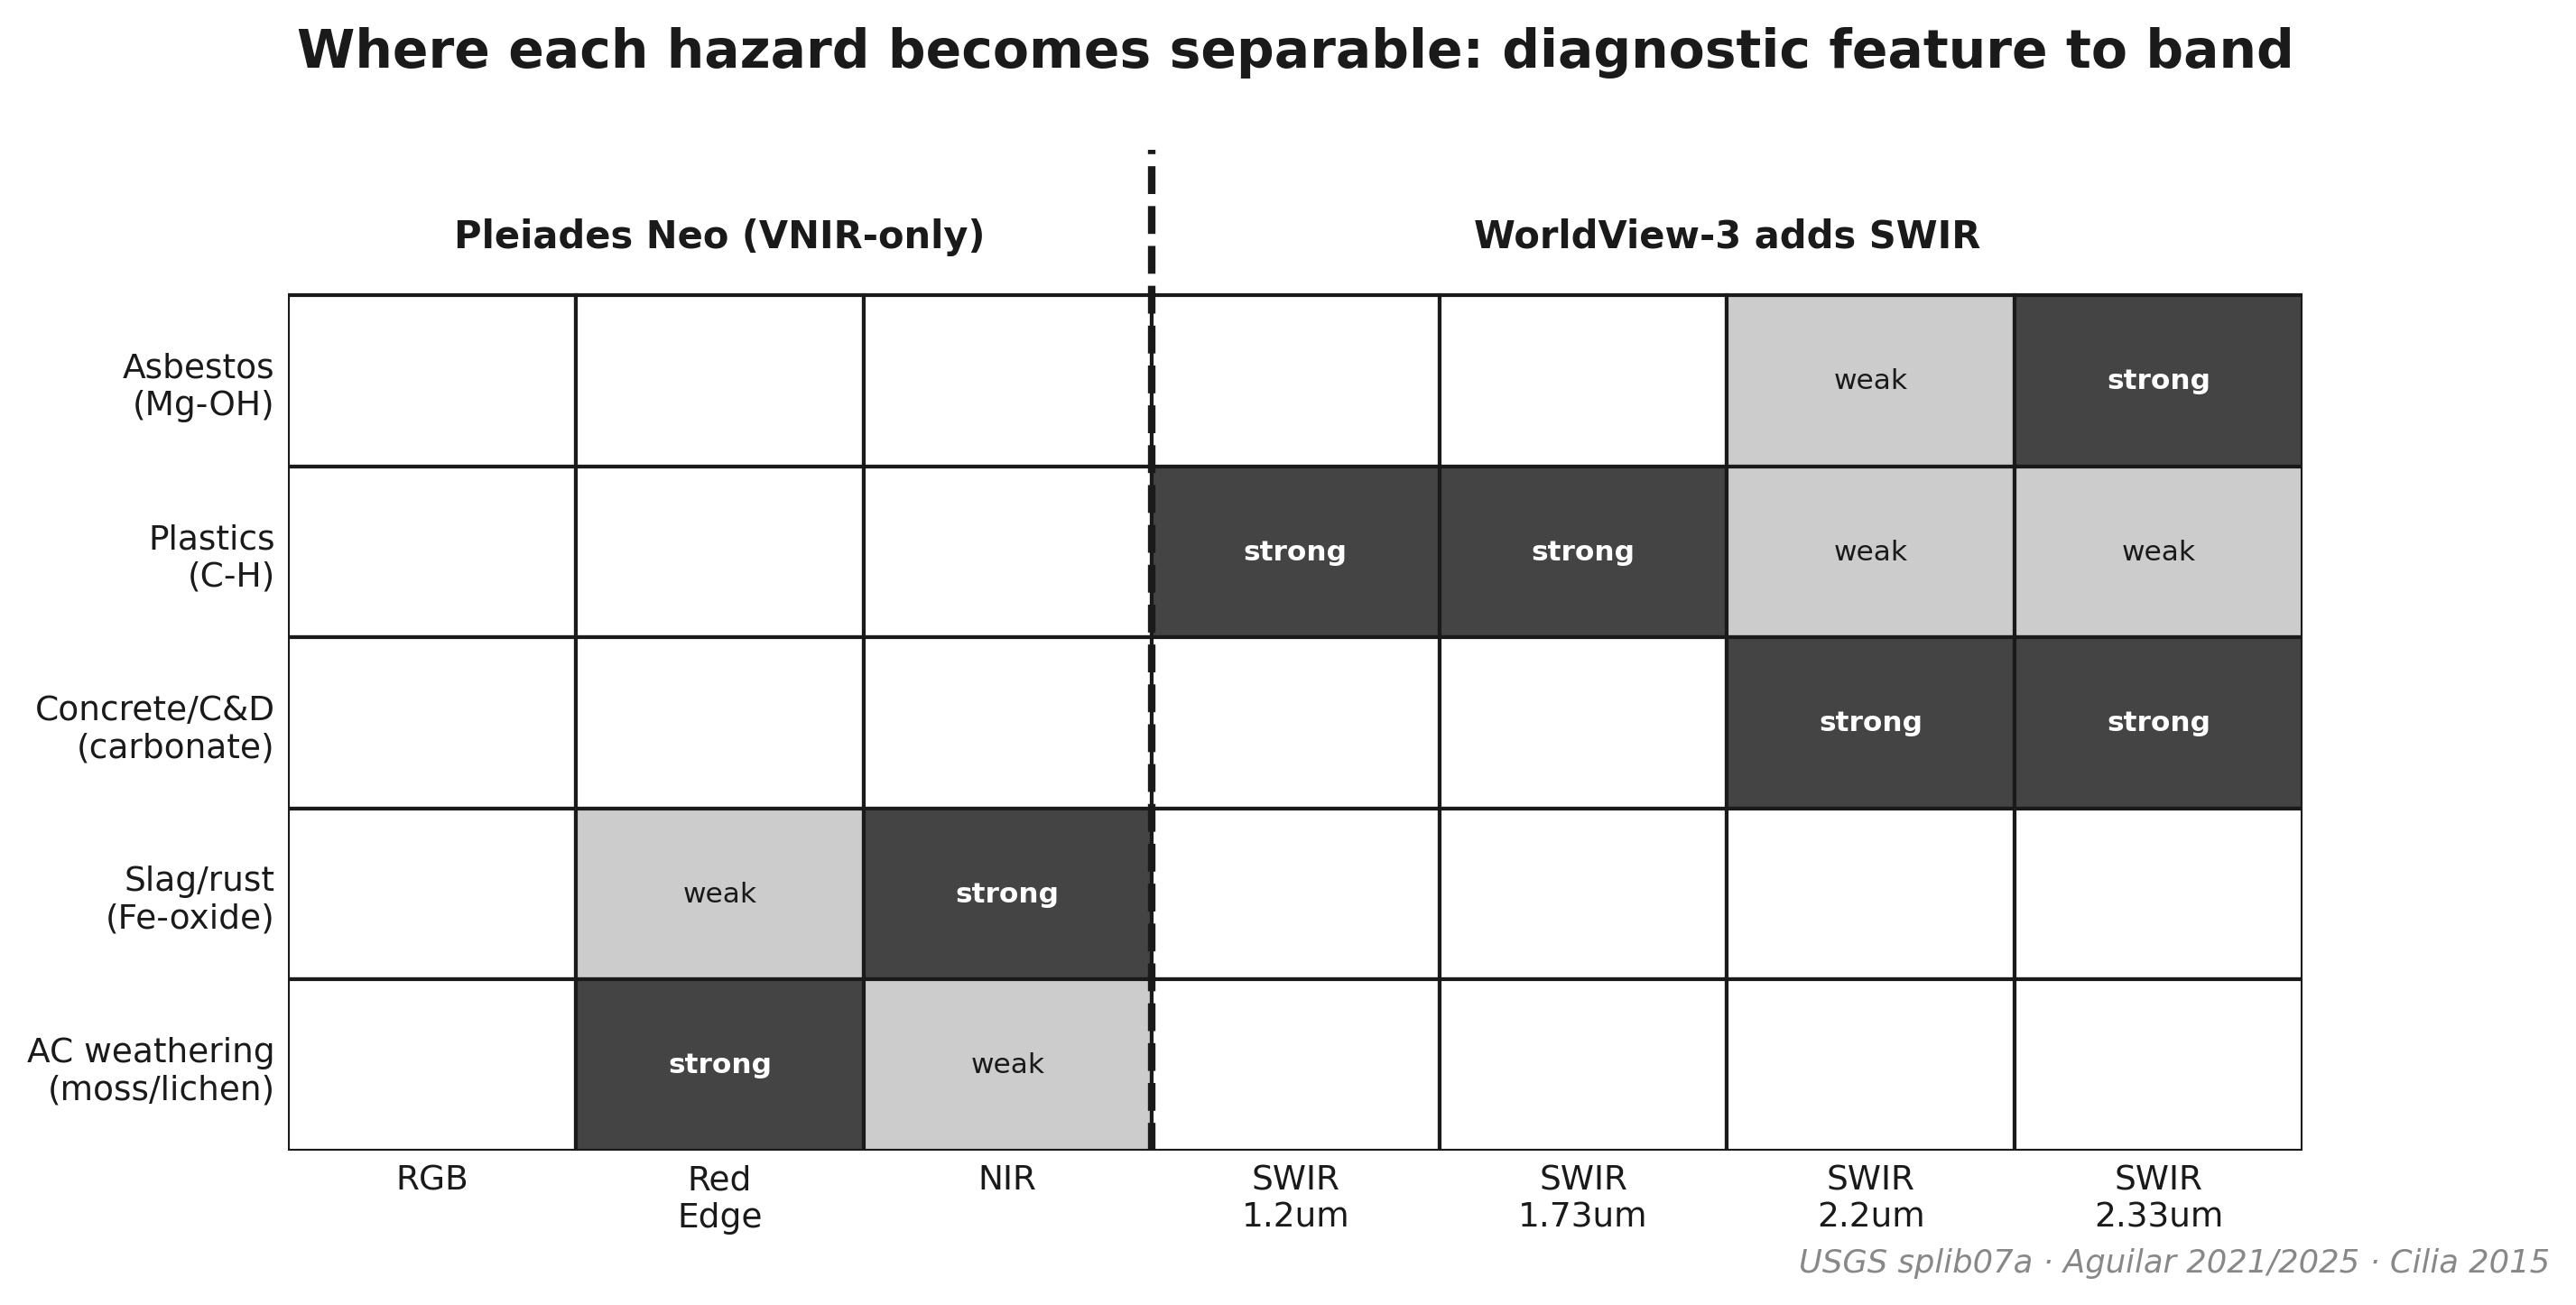
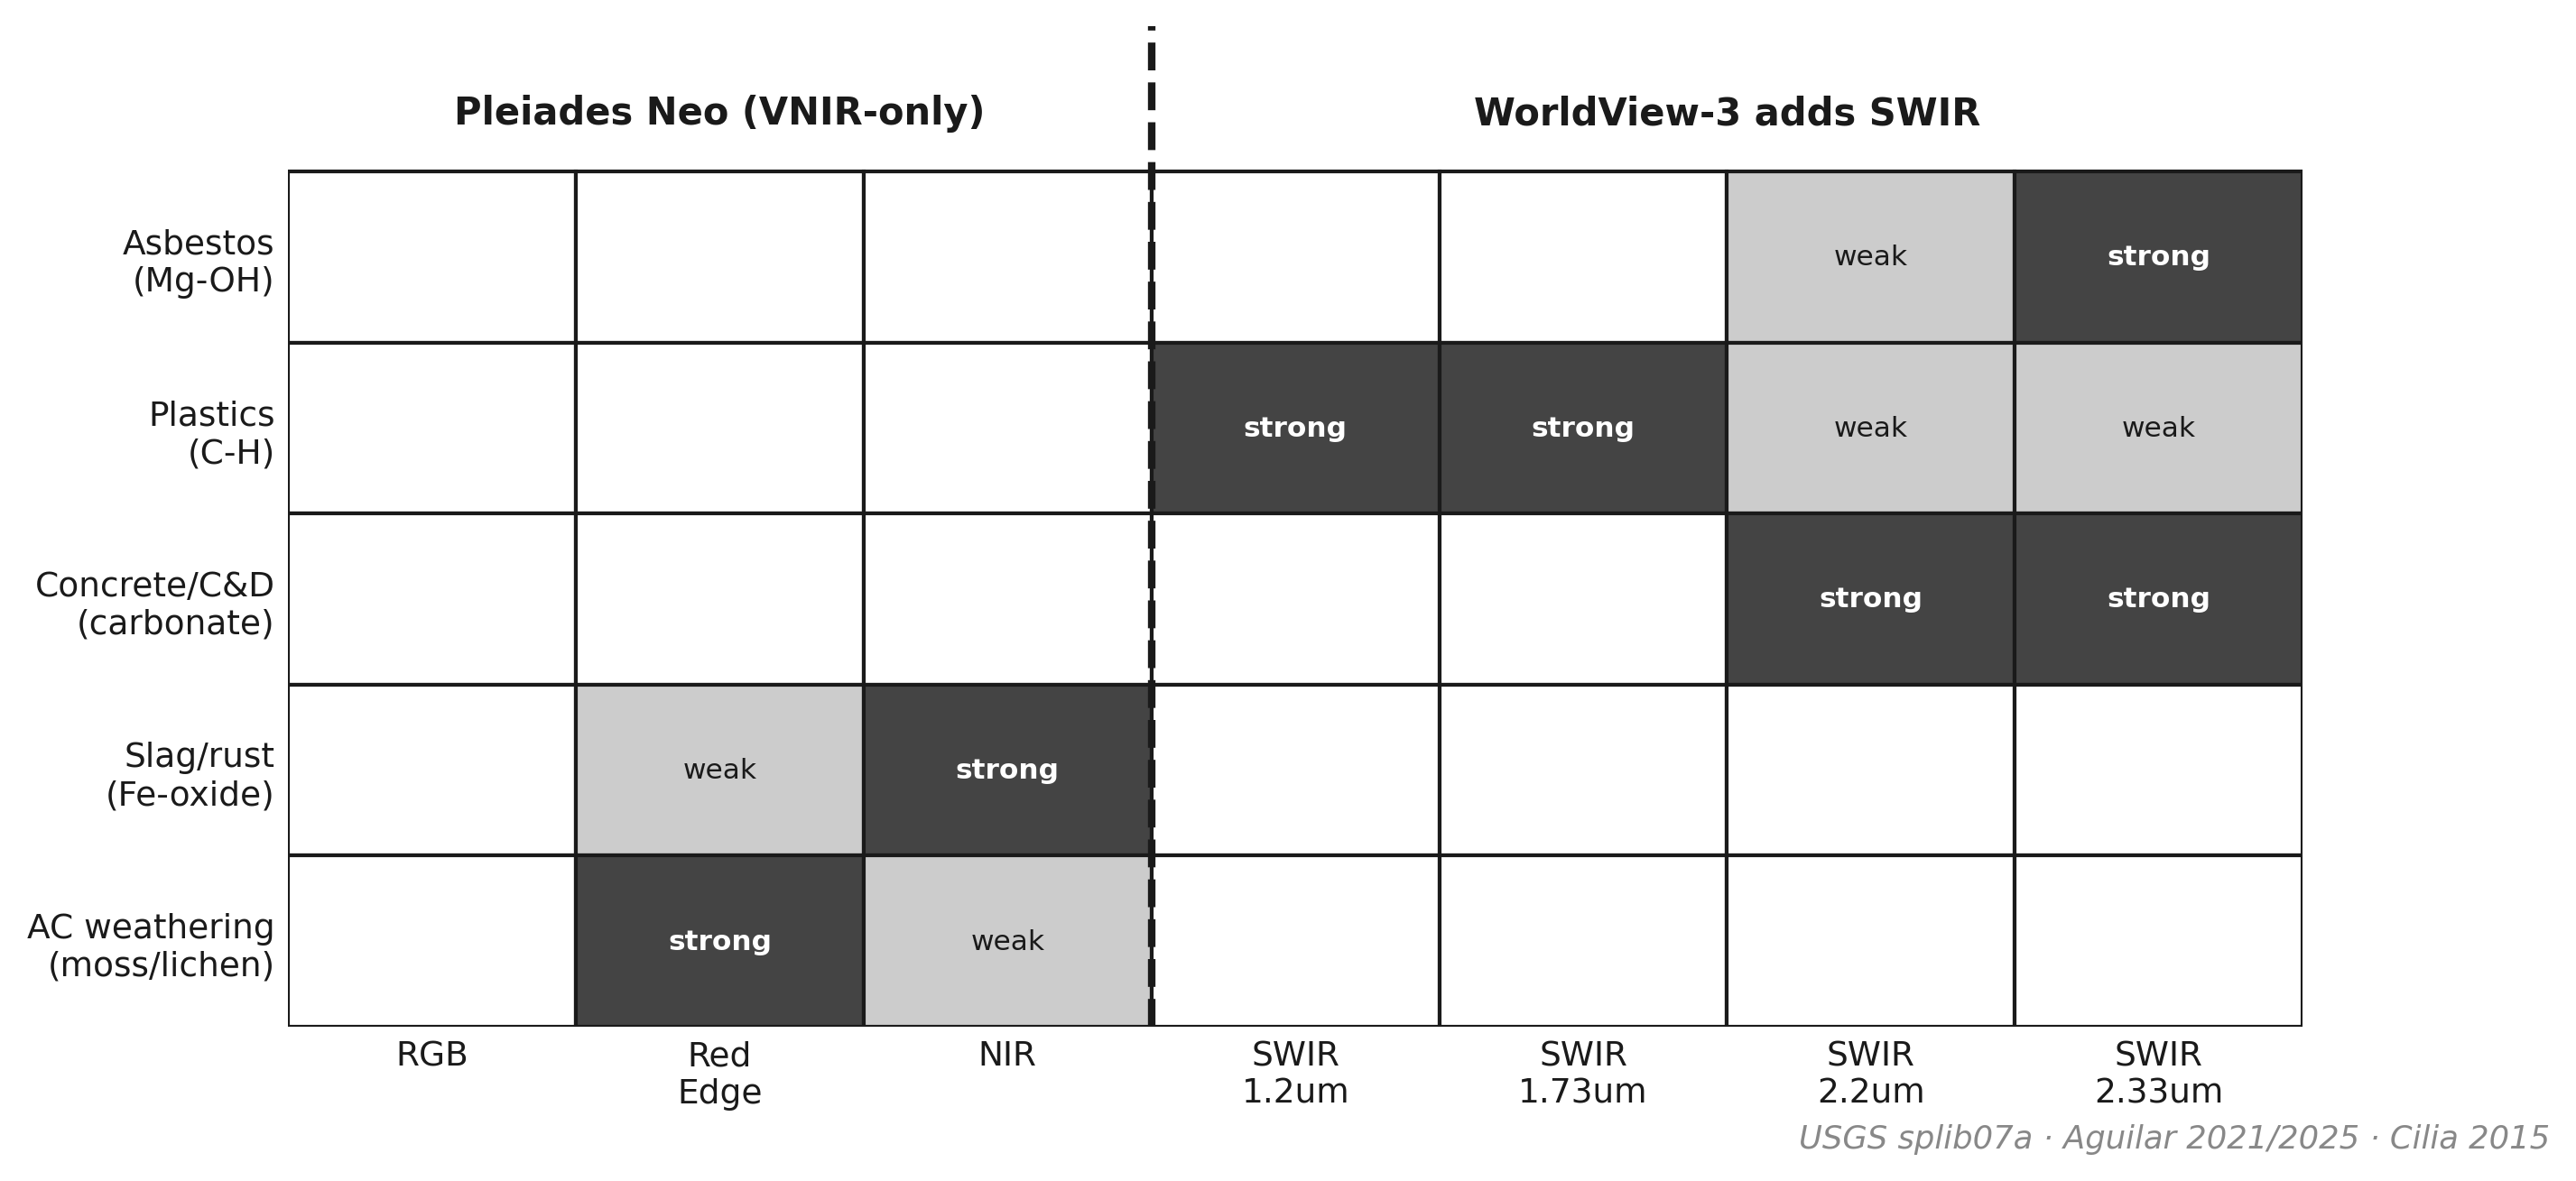
deck: impeccability pass — narrative, rigor, B/W figure polish
Narrative: feature→band map and honest-limit moved AFTER the sensor slides
(no more forward references to WV-3/PNeo before they are introduced).
Rigor: FM slide no longer says 'transfer to 3 m SuperDove' (now sub-metre
VHR); paradigm slide carries verified numbers (Gibellini F1 92.0%, −5.1%
cross-region); '22 cats'→'22 categories'; 'SBAF' jargon removed; leftover
'(Iso-chromaticity)' dropped from the RGB-fails title; proper → arrows.
Figures: sensor radar rebuilt in B/W WITH Pléiades Neo (thesis pair
emphasised); Aguilar bars and bands-plateau rebuilt as clean B/W without
embedded titles (no title duplication, no overlaps); band-map/swir8
embedded titles stripped. Discorso regenerated to match the new order.

diff --git a/assets/deck_v6/edit_deck.py b/assets/deck_v6/edit_deck.py
@@ -74,6 +74,20 @@ def reencode_all_pictures():
                 except Exception as e:
                     print("  reencode skip:",e)
 
+def replace_pic(slide, path):
+    from pptx.enum.shapes import MSO_SHAPE_TYPE
+    from PIL import Image
+    for sh in list(slide.shapes):
+        if sh.shape_type==MSO_SHAPE_TYPE.PICTURE:
+            L,T,Wb,Hb=sh.left,sh.top,sh.width,sh.height
+            del_shape(sh)
+            iw,ih=Image.open(path).size; ar=iw/ih
+            W=Wb; H=int(W/ar)
+            if H>Hb: H=Hb; W=int(H*ar)
+            slide.shapes.add_picture(path, L+(Wb-W)//2, T+(Hb-H)//2, width=W, height=H)
+            return True
+    return False
+
 def add_slide():
     s=prs.slides.add_slide(prs.slide_layouts[10])  # BLANK
     # strip any leftover placeholders
@@ -128,6 +142,25 @@ def new_table(s, data, left=0.5, top=1.35, w=9.05, colw=None, fs=10, rh=0.5, hh=
 
 # ════════ EDIT EXISTING SLIDES ════════
 # Reframe / update kept original slides
+set_body(S[2],[
+ {"t":"VHR aerial / satellite tile (RGB)  →  CNN or Transformer backbone  →  pretraining (ImageNet, EO SSL)  →  two-step fine-tune  →  binary waste / no-waste.","sz":13},
+ {"t":"•  Accurate within the geographic context it was trained on: Gibellini 2025, F1 92.0% at 20 cm.","sz":13},
+ {"t":"•  Classifies presence, not material.","sz":13},
+ {"t":"•  Tied to chromatic information only.","sz":13},
+ {"t":"•  Generalizzazione collapses outside it: -5.1% F1 cross-region; worse cross-sensor.","sz":13},
+ {"t":"These limits motivate looking at the spectrum.","i":True,"sz":12,"c":GREY},
+])
+set_footer(S[2],"Gibellini et al. 2025 (Waste Mgmt Bull.) · Fraternali et al. 2024 (survey)")
+set_title(S[6],"RGB fails in two distinct ways")
+set_body(S[15],[
+ {"t":"2024-2025: a wave of pretrained backbones for EO (Prithvi, SpectralGPT, DOFA, AnySat).","sz":14},
+ {"t":"Most are pretrained at 10-30 m on Sentinel-2 / HLS - naive transfer to sub-metre VHR is not guaranteed.","sz":14},
+ {"t":"Two routes forward","b":True,"sz":13},
+ {"t":"•  Sensor-agnostic models (DOFA, AnySat), accept arbitrary band sets.","sz":13},
+ {"t":"•  Parameter-efficient adapters (DEFLECT), freeze the backbone, add small heads (<1% parameters).","sz":13},
+ {"t":"Open question: does pretraining at 10-30 m transfer to ~1 m VHR - and to material classification?","i":True,"sz":12,"c":GREY},
+])
+
 set_body(S[3],[
  {"t":"Each pixel is a vector of reflectance values, the material's spectral signature.","sz":14},
  {"t":"•  RGB,  3 broad visible bands (colour only).","sz":14},
@@ -135,7 +168,7 @@ set_body(S[3],[
  {"t":"•  Hyperspectral (HSI),  hundreds of contiguous narrow bands (EnMAP 230; USGS splib07a 2,151 ch).","sz":14},
  {"t":"This vector is the raw input from which any classifier reasons.","sz":14},
 ])
-# S12 -> reframe as the VHR / SWIR landscape (NOT "my data")
+# S12 → reframe as the VHR / SWIR landscape (NOT "my data")
 set_title(S[11],"Very-high resolution: the SWIR divide")
 for sh in list(S[11].shapes):
     if getattr(sh,"has_table",False): del_shape(sh)
@@ -161,8 +194,8 @@ set_body(S[12],[
 ])
 # S14 more-bands
 set_body(S[13],[
- {"t":"•  Aguilar 2021 (WV-3 plastic): VNIR 90.85 -> All 97.38; SWIR carries the jump.","sz":14},
- {"t":"•  CDW 2025 (lab HSI, C&D): RGB 0.87 -> RGB + 2 NIR bands 0.96, on par with full 768-band HSI.","sz":14},
+ {"t":"•  Aguilar 2021 (WV-3 plastic): VNIR 90.85 → All 97.38; SWIR carries the jump.","sz":14},
+ {"t":"•  CDW 2025 (lab HSI, C&D): RGB 0.87 → RGB + 2 NIR bands 0.96, on par with full 768-band HSI.","sz":14},
  {"t":"•  Zhou 2021 (WV-3 SWIR): 8 narrow bands separate aliphatic vs aromatic polymers.","sz":14},
  {"t":"What matters is which bands, not how many: a few well-chosen SWIR bands recover most of the gain.","i":True,"sz":12,"c":GREY},
 ])
@@ -182,11 +215,18 @@ set_body(S[17],[
  {"t":"•  Material evidence is adjacent, not direct: proven on greenhouses / asbestos roofs in isolation, never in a waste pipeline.","sz":13},
  {"t":"•  Generalization (cross-region / cross-sensor / cross-time) is fragile and unmeasured for MS.","sz":13},
  {"t":"•  Foundation models pretrain at 10-30 m and are untested for material at VHR.","sz":13},
- {"t":"•  No link from material -> hazard class -> risk, the decision output agencies actually need.","sz":13},
+ {"t":"•  No link from material → hazard class → risk, the decision output agencies actually need.","sz":13},
 ])
 set_footer(S[17],"Gaps distilled across the surveyed works · Fraternali et al. 2024")
 
-# S15 SuperDove -> Honest caveat (+ swir8 figure)
+replace_pic(S[8], os.path.join(BW,"sensor_radar_bw.png"))
+replace_pic(S[12], os.path.join(BW,"aguilar_bars_bw.png"))
+replace_pic(S[13], os.path.join(BW,"bands_plateau_bw.png"))
+from pptx.enum.shapes import MSO_SHAPE_TYPE as _MST13
+for _sh in list(S[13].shapes):
+    if _sh.shape_type==_MST13.PICTURE:
+        _sh.top=IN(2.60); _sh.left=IN(1.80); _sh.width=IN(6.4); _sh.height=IN(2.55)
+# S15 SuperDove → Honest caveat (+ swir8 figure)
 sd=S[14]
 set_title(sd,"Honest limit: resolution is split between texture and chemistry")
 _,bd,_=boxes(sd)
@@ -223,14 +263,14 @@ n_foot(n,"EWC List of Waste (Dec. 2000/532/EC) · Fazzo et al. 2023")
 # G1 RGB detection
 survey("State of the art: RGB waste detection",
  [["Gibellini 2025","AerialWaste RGB 20 cm","Swin-T + RSP, two-step","F1 92.0%; cross-region -5.1%"],
-  ["AerialWaste (Torres 2023)","aerial RGB 20-50 cm","dataset; ResNet+FPN","F1 80.7%; 22 cats, RGB-only"],
+  ["AerialWaste (Torres 2023)","aerial RGB 20-50 cm","dataset; ResNet+FPN","F1 80.7%; 22 categories, RGB-only"],
   ["Sun 2023 (global)","VHR RGB 0.3-1 m","BCA-Net detection","~2,500 dumpsites; sens. 98%"],
   ["CascadeDumpNet 2024","Pleiades 0.5 m RGB","cascade CNN + AutoML","mAP 84.6%; transfers across cities"],
   ["Disaitek 2024","Pleiades Neo 0.3 m","operational service","waste >=2 m2 ~95% (vendor)"]],
  "All RGB: detect site shape/context; material composition stays out of reach. † vendor/pre-print not peer-benchmarked.")
 
 # band->material (physics)
-n=add_slide(); n_title(n,"Where each hazard becomes separable: feature -> band")
+n=add_slide(); n_title(n,"Where each hazard becomes separable: feature → band")
 n_img(n, os.path.join(BW,"band_material_map.png"), left=0.6, top=1.15, w=8.8, h=3.95)
 n_foot(n,"Diagnostic absorptions RGB cannot see · USGS splib07a (Kokaly 2017) · Aguilar 2021/2025 · Cilia 2015")
 
@@ -245,11 +285,11 @@ survey("State of the art: asbestos discrimination",
 
 # G3 plastics & urban materials
 survey("State of the art: plastics & urban materials",
- [["Aguilar 2021","WV-3 VNIR + SWIR","OBIA + DT, 3-way ablation","OA 90.85 -> 96.79 -> 97.38"],
+ [["Aguilar 2021","WV-3 VNIR + SWIR","OBIA + DT, 3-way ablation","OA 90.85 → 96.79 → 97.38"],
   ["Aguilar 2025","WV-3 SWIR 3.7 m","matched filter (USGS spectra)","precision 92.5%; lab-image r=0.95"],
   ["EMIT (Estrela 2025)","EMIT HSI 60 m","matched filter, HDPE/PVC","first global orbital plastic map"],
   ["MARIDA 2022","Sentinel-2 10 m","RF / U-Net benchmark","F1 0.79; sub-pixel mixing at 10 m"],
-  ["CDW 2025","lab HSI 768 b","narrowband + MLP","RGB 0.87 -> +2 NIR 0.96 ~ full HSI"],
+  ["CDW 2025","lab HSI 768 b","narrowband + MLP","RGB 0.87 → +2 NIR 0.96 ~ full HSI"],
   ["SpectralWaste 2024","RGB + SWIR HSI (conveyor)","RGB/HSI/fusion segmentation","fusion mIoU 58 > RGB 48; HSI wins thin classes"]],
  "Material identity comes from NIR-SWIR chemistry (C-H, Mg-OH), not colour - but proven outside illegal-waste imagery.")
 
@@ -284,7 +324,7 @@ new_table(n,[
  ["","In-domain","Cross-region","Cross-sensor"],
  ["RGB (today)","strong","-5.1% F1 (Gibellini)","ports trivially"],
  ["+ VNIR","-","gap narrows (physics)","band-shift fragile"],
- ["+ SWIR","-","gap narrows most","widens w/o SBAF"],
+ ["+ SWIR","-","gap narrows most","widens if not harmonized"],
 ], left=0.9, top=1.55, w=7.5, colw=[1.8,1.9,1.95,1.85], fs=12, rh=0.6)
 n_body(n,[{"t":"A recurring SOTA blind spot: most works report in-domain only. Whether added bands narrow or widen the gap is itself an open question.","i":True,"sz":12,"c":GREY}], top=3.7, h=0.8, vc=False)
 n_foot(n,"Cross-region -5.1%: Gibellini 2025 · band-shift fragility: GeoCrossBench, DOFA/AnySat · pattern, not yet measured for this task")
@@ -293,7 +333,7 @@ n_foot(n,"Cross-region -5.1%: Gibellini 2025 · band-shift fragility: GeoCrossBe
 n=add_slide(); n_title(n,"What the state of the art points to")
 n_body(n,[
  {"t":"The open question is sharp and unanswered: how much does multiband beat RGB for waste MATERIAL - and where does it stop?","b":True,"sz":14},
- {"t":"•  A controlled band ablation (RGB -> +RedEdge/NIR -> full VNIR -> +SWIR) on a wavelength-agnostic backbone (DOFA).","sz":13},
+ {"t":"•  A controlled band ablation (RGB → +RedEdge/NIR → full VNIR → +SWIR) on a wavelength-agnostic backbone (DOFA).","sz":13},
  {"t":"•  Generalization as a first-class axis (cross-region / sensor / time), not an afterthought.","sz":13},
  {"t":"•  Candidate VHR platforms span the SWIR divide: WorldView-3 (with SWIR) vs Pleiades Neo (VNIR-only).","sz":13},
  {"t":"•  Asbestos is the cleanest first material: public ground truth + a textbook SWIR signature.","sz":13},
@@ -336,7 +376,7 @@ reencode_all_pictures()
 # ════════ REORDER (SOTA narrative) ════════
 sldIdLst=prs.slides._sldIdLst
 ids=list(sldIdLst)
-order=[0, 1, _I_RISK, 2, _I_G1, 3, _I_FP, 6, _I_BM, _I_G2, _I_G3, 12, 13, 14, _I_SN, 11, _I_G5, 15, _I_G6, 16, _I_G7, 17, _I_GEN, _I_DIR]
+order=[0, 1, _I_RISK, 2, _I_G1, 3, _I_FP, 6, _I_G2, _I_G3, 12, 13, _I_SN, 11, _I_BM, 14, _I_G5, 15, _I_G6, 16, _I_G7, 17, _I_GEN, _I_DIR]
 assert len(order)==24 and all(0<=i<len(ids) for i in order), (len(ids),len(order))
 desired=[ids[i] for i in order]
 for sid in ids: sldIdLst.remove(sid)

diff --git a/assets/deck_v6/figs_bw.py b/assets/deck_v6/figs_bw.py
@@ -40,7 +40,6 @@ ax.axvspan(2300,2350,facecolor="none",edgecolor=K,hatch="////",lw=0,zorder=1,alp
 ax.annotate("Mg-OH ~2.30-2.33 um (asbestos)",xy=(2330,0.66),xytext=(2080,0.50),
     fontsize=9.5,color=K,fontweight="bold",arrowprops=dict(arrowstyle="->",color=K,lw=1.2))
 ax.set_xlabel("Wavelength (nm)"); ax.set_ylabel("Reflectance"); ax.set_xlim(2000,2500)
-ax.set_title("SWIR-8 bottleneck: three hazards crowd into one WV-3 band",pad=8)
 ax.legend(loc="lower left",frameon=True,fontsize=9.5,edgecolor=LG)
 for s in ("top","right"): ax.spines[s].set_visible(False)
 ax.grid(alpha=0.25,color=LG)
@@ -86,7 +85,6 @@ ax.text(5,nr+0.28,"WorldView-3 adds SWIR",ha="center",fontsize=10,fontweight="bo
 ax.set_xlim(0,nc); ax.set_ylim(0,nr+0.85); ax.set_xticks(np.arange(nc)+0.5); ax.set_xticklabels(feats,fontsize=9)
 ax.set_yticks(np.arange(nr)+0.5); ax.set_yticklabels(mats[::-1],fontsize=9); ax.tick_params(length=0)
 for sp in ax.spines.values(): sp.set_visible(False)
-ax.set_title("Where each hazard becomes separable: diagnostic feature to band",pad=22)
 foot(fig,"USGS splib07a · Aguilar 2021/2025 · Cilia 2015")
 fig.savefig(OUT/"band_material_map.png",bbox_inches="tight"); plt.close(fig)
 
@@ -110,3 +108,63 @@ ax.text(50,34,"Public pixel-accurate labels · textbook SWIR diagnostic · de-ri
 foot(fig,"GT: Lombardia WFS Mappatura_2020 · physics: chrysotile Mg-OH 2.30-2.33um (splib07a)")
 fig.savefig(OUT/"pilot_workflow.png"); plt.close(fig)
 print("BW figs:",len(list(OUT.glob('*.png'))))
+
+# ── 5. aguilar bars, B/W, no embedded title ──
+fig,ax=plt.subplots(figsize=(7.4,4.4))
+vals=[90.85,96.79,97.38]; labs=["VNIR only"+NL+"(8 bands)","SWIR only"+NL+"(8 bands)","All features"+NL+"(16 bands)"]
+cols=["#DDDDDD","#8A8A8A","#3A3A3A"]
+bars=ax.bar(labs,vals,color=cols,edgecolor=K,lw=1.0,width=0.58)
+for b,v in zip(bars,vals):
+    ax.text(b.get_x()+b.get_width()/2,v+0.18,"%.2f%%"%v,ha="center",fontsize=11,fontweight="bold",color=K)
+ax.annotate("+5.94 pp"+NL+"(SWIR > VNIR)",xy=(0.95,96.6),xytext=(0.18,98.7),fontsize=9,color=K,
+    arrowprops=dict(arrowstyle="->",color=K,lw=1.0))
+ax.annotate("+0.59 pp"+NL+"(All > SWIR)",xy=(2,97.38),xytext=(2.05,99.0),fontsize=9,color=K,ha="center")
+ax.set_ylim(85,100.6); ax.set_ylabel("Overall accuracy (%)")
+for sp in ("top","right"): ax.spines[sp].set_visible(False)
+ax.grid(axis="y",alpha=0.25,color=LG)
+fig.savefig(OUT/"aguilar_bars_bw.png"); plt.close(fig)
+
+# ── 6. bands plateau, B/W, no embedded title ──
+fig,ax=plt.subplots(figsize=(8.6,4.2))
+nb=[3,4,5,7,10,20,50,100,250,500,768]
+oa=[85.0,92.0,95.0,95.5,95.8,96.0,96.0,96.0,96.0,96.1,96.2]
+ax.semilogx(nb,oa,color=K,lw=2.0,marker="o",ms=5,label="C&D waste, narrowband selection (Vitek 2025)")
+ax.plot([8],[90.85],marker="s",ms=8,color="#8A8A8A",ls="none",label="WV-3 ablation (Aguilar 2021)")
+ax.plot([8],[96.79],marker="s",ms=8,color="#8A8A8A",ls="none")
+ax.plot([16],[97.38],marker="s",ms=8,color="#8A8A8A",ls="none")
+ax.annotate("VNIR only 90.85%",xy=(8,90.85),xytext=(13,89.6),fontsize=9,color=DG)
+ax.annotate("SWIR only 96.79%",xy=(8,96.79),xytext=(3.2,98.3),fontsize=9,color=DG)
+ax.annotate("All 16: 97.38%",xy=(16,97.38),xytext=(26,98.3),fontsize=9,color=DG)
+ax.annotate("plateau ~96% from ~5 well-chosen bands",xy=(50,96.0),xytext=(90,92.6),fontsize=9.5,color=K,
+    fontweight="bold",arrowprops=dict(arrowstyle="->",color=K,lw=1.0))
+ax.set_xlabel("Number of spectral bands (log scale)"); ax.set_ylabel("Overall accuracy (%)")
+ax.set_ylim(84,100)
+ax.legend(loc="lower right",frameon=True,fontsize=8.5,edgecolor=LG)
+for sp in ("top","right"): ax.spines[sp].set_visible(False)
+ax.grid(alpha=0.25,color=LG)
+fig.savefig(OUT/"bands_plateau_bw.png"); plt.close(fig)
+
+# ── 7. sensor radar, B/W-restrained, WITH Pleiades Neo ──
+sensors=[
+ ("WorldView-3",  [1/1.24, np.log10(16), 1/3.0],  K,   "-",  2.6, "^"),
+ ("Pleiades Neo", [1/1.2,  np.log10(6),  1/2.0],  K,   "--", 2.6, "o"),
+ ("SuperDove",    [1/3.0,  np.log10(8),  1/0.5],  MG,  "-",  1.3, "s"),
+ ("Sentinel-2",   [1/10.0, np.log10(13), 1/5.0],  MG,  "--", 1.3, "D"),
+ ("EnMAP",        [1/30.0, np.log10(228),1/27.0], LG,  "-",  1.3, "v"),
+]
+vals=np.array([x[1] for x in sensors],float); norm=vals/vals.max(axis=0)
+N=3; ang=np.linspace(0,2*np.pi,N,endpoint=False).tolist(); ang+=ang[:1]
+fig=plt.figure(figsize=(6.8,6.2)); ax=plt.subplot(111,polar=True)
+ax.set_theta_offset(np.pi/2); ax.set_theta_direction(-1)
+ax.set_xticks(ang[:-1]); ax.set_xticklabels(["Spatial"+NL+"(1/GSD)","Spectral"+NL+"bands","Revisit"+NL+"(1/days)"],fontsize=11,fontweight="bold")
+ax.set_ylim(0,1.05); ax.set_yticklabels([]); ax.grid(color="#E3E3E3")
+ax.spines["polar"].set_color(LG)
+for (name,_,col,ls,lw,mk),nv in zip(sensors,norm):
+    d=nv.tolist()+[nv.tolist()[0]]
+    ax.plot(ang,d,color=col,ls=ls,lw=lw,marker=mk,ms=6,label=name)
+    if name in ("WorldView-3","Pleiades Neo"): ax.fill(ang,d,color="#000000",alpha=0.05)
+ax.legend(loc="upper right",bbox_to_anchor=(1.38,1.10),fontsize=9,frameon=True,edgecolor=LG)
+fig.text(0.5,0.015,"Outer ring = better. Spatial 1/GSD (log) - bands log10(N) - revisit 1/days (log). Specs: Maxar, Airbus, Planet, ESA, DLR.",
+    ha="center",fontsize=8,style="italic",color=MG)
+fig.savefig(OUT/"sensor_radar_bw.png",bbox_inches="tight"); plt.close(fig)
+print("polish figs done:",len(list(OUT.glob('*.png'))))

diff --git a/assets/deck_v6/make_discorso.py b/assets/deck_v6/make_discorso.py
@@ -36,39 +36,39 @@ S=[
 (8,"RGB fails in two distinct ways",
  "L'RGB fallisce in due modi. Primo, <b>iso-cromaticità</b>: materiali diversi con lo stesso colore — un telo di plastica HDPE, un tetto in cemento-amianto e una lastra di cemento chiaro sono quasi identici all'occhio. Secondo, il <b>mixing sub-pixel</b>: a 10–30 m un pixel raramente contiene un solo materiale, e la miscela di due può cadere sulla firma di un terzo. Entrambi invisibili senza informazione spettrale; solo le feature SWIR li tengono separati.",
  "Due modi: iso-cromaticità + mixing sub-pixel. Fonte: Tasseron 2021, Aguilar 2025.",
- "Dove diventa separabile ciascun materiale? Dipende dalla banda."),
-(9,"Where each hazard becomes separable: feature → band",
+ "Vediamo ora le prove sperimentali, materiale per materiale — a partire dall'amianto."),
+(15,"Where each hazard becomes separable: feature → band",
  "Questa griglia mostra dove ciascun pericolo diventa separabile. Pléiades Neo arriva solo fino al NIR: prende bene la ruggine e il degrado dei tetti amianto (muschio/licheni nel red-edge), ma è cieca alla chimica. WorldView-3 aggiunge lo SWIR: è lì che amianto, plastiche e carbonati del cemento diventano distinguibili. È la traduzione operativa della slide precedente: la chimica sta nello SWIR.",
  "PNeo si ferma al NIR; WV-3 aggiunge SWIR. La chimica è nello SWIR.",
- "Vediamo ora le prove sperimentali, materiale per materiale — a partire dall'amianto."),
-(10,"State of the art: asbestos discrimination (tabella)",
+ "Onestà scientifica: c'è però un limite fisico."),
+(9,"State of the art: asbestos discrimination (tabella)",
  "L'amianto è la prova più netta che MS e HSI recuperano l'identità del materiale. Shepherd 2025, iperspettrale EnMAP a 30 m: 86% di match sul campo. Cilia 2015, storico italiano, iperspettrale aereo MIVIS: PA 89% / UA 86%. Saba 2026, WorldView-3 solo VNIR: Macro-F1 97,6% — mostra che a volte bastano 8 bande VNIR. Bonifazi 2026, WV-3 16 bande, monitoraggio multi-temporale. Abbasi 2024, addirittura da aereo RGB senza SWIR, sfruttando forma e serie temporale, ~96%.",
  "Shepherd 86% campo; Cilia PA89/UA86; Saba 97,6% (†); i † sono paywalled/pre-print.",
  "E per le plastiche e i materiali urbani?"),
-(11,"State of the art: plastics & urban materials (tabella)",
+(10,"State of the art: plastics & urban materials (tabella)",
  "Qui la seconda linea. Aguilar 2021 è il riferimento canonico: ablazione VNIR / SWIR / tutto su WV-3 — 90,85 → 96,79 → 97,38, lo SWIR fa il salto. Aguilar 2025, macroplastiche con matched filter, precisione 92,5% e correlazione lab-immagine r 0,95. EMIT 2025, prima mappa globale orbitale di plastica. MARIDA, Sentinel-2 a 10 m, F1 0,79 ma soffre il mixing. CDW 2025: RGB 0,87 sale a 0,96 con sole 2 bande NIR. SpectralWaste: la fusione RGB+HSI batte entrambi. Il messaggio: l'identità viene dalla chimica NIR-SWIR, non dal colore.",
  "Aguilar 90,85→96,79→97,38. CDW: RGB 0,87 → +2 NIR 0,96.",
  "Fermiamoci su quel numero di Aguilar: è la prova più citata del valore aggiunto."),
-(12,"Spectral added value, measured: Aguilar 2021",
+(11,"Spectral added value, measured: Aguilar 2021",
  "Aguilar 2021 è l'ablazione di bande più citata su WorldView-3 per una classificazione tipo-rifiuto — plastica da serre, 14 milioni di pixel, OBIA più albero decisionale, cross-validation. L'accuratezza va da 90,85% con solo VNIR, a 96,79% con solo SWIR, a 97,38% con tutte le 16 bande. È la prova canonica che lo SWIR aggiunge potere discriminante sul materiale. È anche il template metodologico di riferimento.",
  "90,85 → 96,79 → 97,38 (VNIR → SWIR → tutto). Il salto è lo SWIR.",
  "Ma servono davvero tante bande? No."),
-(13,"More bands ≠ more information, well-chosen few suffice",
+(12,"More bands ≠ more information, well-chosen few suffice",
  "Non conta quante bande, conta <b>quali</b>. Aguilar: da VNIR a tutto, il salto lo fa lo SWIR. CDW 2025, su rifiuti da costruzione in laboratorio: RGB a 0,87 sale a 0,96 con sole 2 bande NIR — alla pari con 768 bande iperspettrali. Zhou 2021: 8 bande SWIR strette separano i tipi di polimero. Quindi poche bande SWIR ben scelte recuperano gran parte del guadagno: è un'informazione importante per il costo e la fattibilità.",
  "\"Quali bande, non quante\". CDW: +2 NIR ≈ HSI 768 bande.",
- "Onestà scientifica: c'è però un limite fisico."),
-(14,"Honest limit: resolution split between texture and chemistry",
+ "Passiamo ai sensori: qual è il compromesso?"),
+(16,"Honest limit: resolution split between texture and chemistry",
  "Un limite da dichiarare: la risoluzione è divisa tra tessitura e chimica. Lo spettro è campionato grossolanamente — VNIR a 1,24 m, SWIR a 3,7 m, pixel da ~14 m². Il pancromatico dà tessitura fine a 0,3 m, ma da solo non dà materiale. Una piccola discarica si <i>vede</i> (tessitura) più facilmente di quanto si <i>identifichi</i> chimicamente. E c'è il collo di bottiglia SWIR-8: amianto 2,32, cemento 2,34, plastica 2,31 finiscono in un'unica banda WV-3. E attenzione: a volte lo SWIR non serve — Saba e Abbasi classificano l'amianto senza.",
  "SWIR 3,7 m, pixel ~14 m². Bottleneck SWIR-8. Volontariamente onesti: SWIR non sempre necessario.",
- "Passiamo ai sensori: qual è il compromesso?"),
-(15,"The sensor trade-off: spatial × spectral × revisit",
+ "E i dataset? Qui emerge un buco strutturale."),
+(13,"The sensor trade-off: spatial × spectral × revisit",
  "Tre assi, un solo budget di fotoni: nessun satellite li massimizza tutti. WorldView-3: 1,24 m nel VNIR più 3,7 m nello SWIR, 16 bande — l'unica opzione VHR con SWIR. Pléiades Neo: 1,2 m, 6 bande VNIR, niente SWIR — il più nitido dei solo-VNIR. Sentinel-2 ed EnMAP: 10–30 m, spettro ricco ma troppo grossolano per il materiale a scala di sito. SuperDove: 3 m, 8 VNIR, gratis e quasi giornaliero, ma solo VNIR.",
  "Radar PRIMA dei singoli sensori (roadmap). GSD non si traduce.",
  "Zoomiamo sull'altissima risoluzione: è qui che si gioca lo SWIR."),
-(16,"Very-high resolution: the SWIR divide",
+(14,"Very-high resolution: the SWIR divide",
  "All'altissima risoluzione c'è uno spartiacque, la presenza o meno dello SWIR. WorldView-3 è l'unica piattaforma sotto i 2 m che porta anche lo SWIR — dove sta la chimica. Pléiades Neo e SuperDove sono solo-VNIR: nitidi, ma ciechi alle assorbanze diagnostiche dello SWIR. È il compromesso su cui gira tutto lo stato dell'arte: dettaglio spaziale contro informazione spettrale (chimica). Nota: qui i sensori sono il <b>panorama</b> del task, non un dataset che possiedo.",
  "WV-3 = unico VHR + SWIR. Sensori = panorama, NON \"i miei dati\".",
- "E i dataset? Qui emerge un buco strutturale."),
+ "Cosa compra concretamente lo SWIR, materiale per materiale? Ecco la mappa."),
 (17,"State of the art: datasets & the data gap",
  "I dataset disponibili. AerialWaste di Torres: 22 categorie di materiale ma solo RGB, e le coordinate sono riservate. CWLD 2024: maschere di segmentazione per rifiuti da costruzione, ma solo Cina. MARIDA: benchmark a pixel a 15 classi, però marine — acqua, non terra, a 10 m. SpectralWaste: RGB più SWIR, ma su nastro trasportatore, non da satellite. Conclusione netta: <b>nessun dataset pubblico combina altissima risoluzione, rifiuti terrestri e etichette di materiale</b>. È il gap strutturale.",
  "Nessun dataset: VHR + rifiuti terrestri + label di materiale. È il gap.",
@@ -152,7 +152,7 @@ for t in TIPS: parts.append("<li>%s</li>"%t)
 parts.append("</ul>")
 
 parts.append("<h2>Discorso, slide per slide</h2>")
-for num,tit,disc,rem,tr in S:
+for num,tit,disc,rem,tr in sorted(S, key=lambda x: x[0]):
     parts.append("<div class='slide'>")
     parts.append("<div><span class='snum'>%d.</span> <span class='stitle'>%s</span></div>"%(num,esc(tit)))
     parts.append("<div class='lab'>Cosa dico</div><div class='disc'>%s</div>"%esc(disc))